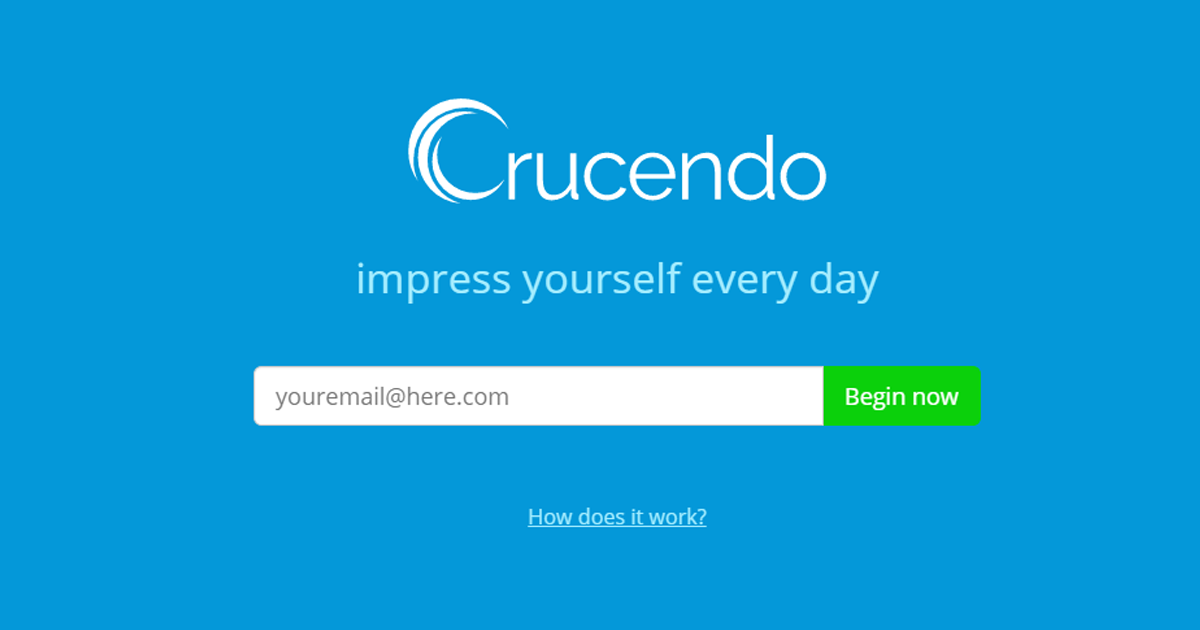
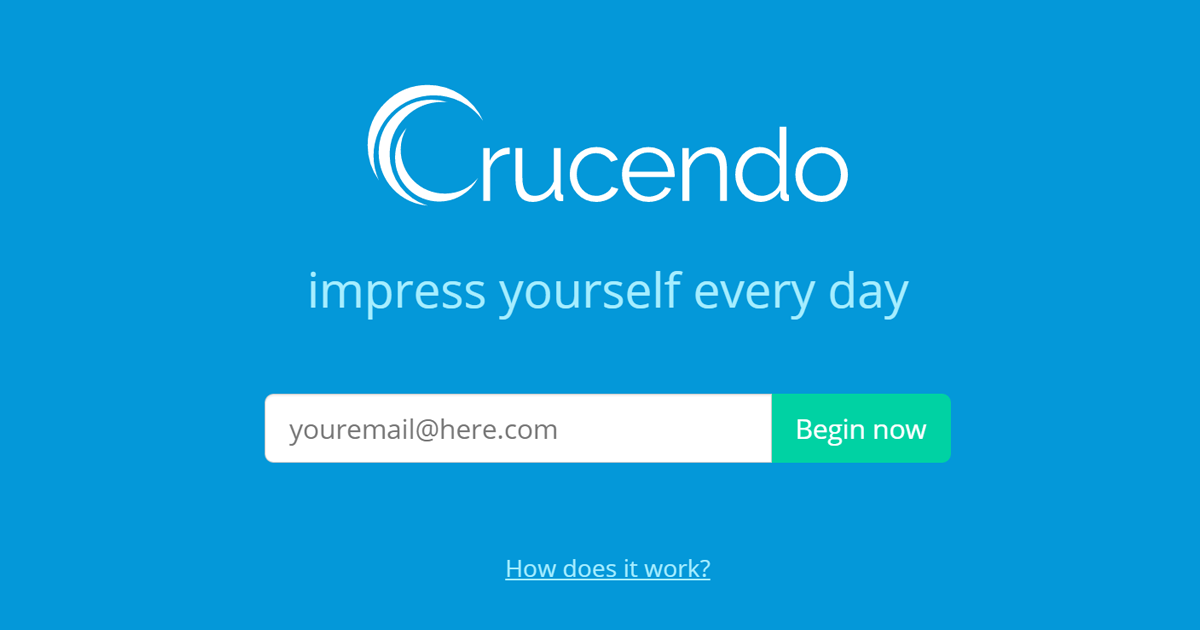
Able to now view crucendos

diff --git a/app/assets/stylesheets/custom.css.scss b/app/assets/stylesheets/custom.css.scss
@@ -1,7 +1,7 @@
 @import "bootstrap-sprockets";
 @import "bootstrap";
 @import "font-awesome";
-@import 'https://fonts.googleapis.com/css?family=Open+Sans|Raleway:400,600';
+@import 'https://fonts.googleapis.com/css?family=Open+Sans:300,400|Raleway:400,600';
 
 /* mixins, variables, etc. */
 
@@ -17,7 +17,7 @@ $friendly-green: #0bd00b;
 $crucial-green: #00d2a3;
 $box-shadow: rgba(0,2,34,0.75);
 
-$friendly-green-dark: darken($friendly-green, 2%);
+$crucial-green-dark: darken($crucial-green, 2%);
 
 $hornets-purple: #2352bf;
 $hornets-purple-light: lighten($hornets-purple, 20%);
@@ -429,7 +429,26 @@ input[type="month"] {
 /* panels */
 .panel {
   border: 1px solid white;
-  
+  .panel-body {
+    padding: 10px;
+    ul {
+      padding: 0;
+      margin: 0;
+      li {
+        .fa {
+          position: absolute;
+          line-height: inherit;
+          padding-left: 0.5em;
+        }
+        .fa-play {
+          margin-left: 1px;
+        }
+        span.offset {
+          padding-left: 3em;
+        }
+      }
+    }
+  }
 }
 .panel-group {
   margin-bottom: 10px;
@@ -453,26 +472,6 @@ input[type="month"] {
       background-color: $hornets-teal;
       color: white;
     }
-    .panel-body {
-      padding: 10px;
-      ul {
-        padding: 0;
-        margin: 0;
-        li {
-          .fa {
-            position: absolute;
-            line-height: inherit;
-            padding-left: 0.5em;
-          }
-          .fa-play {
-            margin-left: 1px;
-          }
-          span.offset {
-            padding-left: 3em;
-          }
-        }
-      }
-    }
     .panel-footer {
       color: $hornets-teal;
       background-color: inherit;
@@ -492,6 +491,20 @@ input[type="month"] {
         color: $hornets-purple;
       }
     }
+  }
+}
+
+.improvement-panel {
+  border: 1px solid white;
+  background-color: white;
+  .panel-heading {
+    border-top-right-radius: 4px;
+    border-top-left-radius: 4px;
+    background-color: $hornets-purple;
+    color: white;
+  }
+  .panel-body {
+    padding: 10px;
   }
 }
 
@@ -645,10 +658,17 @@ textarea.form-control {
   float: right;
 }
 
-.goal-panel a {
-  color: inherit;
-  text-decoration: inherit;
+.goal-panel, .interaction-panel {
+  a {
+    color: inherit;
+    text-decoration: inherit;
+  }
 }
+.goal-panel, .improvement-panel, .crucendo-panel {
+  .panel-title {
+    font-weight: 300;
+  }
+} 
 
 h3.panel-title {
   font-size: 1.6em;
@@ -659,7 +679,8 @@ h3.panel-title {
 }
 
 .helper {
-   font-size: 0.9em;
+  font-size: 0.9em;
+  color: $crucial-gray;
 }
 
 .interaction-summary {
@@ -742,19 +763,18 @@ h3.panel-title {
 .scotch-is-showing>#site-content {
   position: relative;
 }
-// #site-content:after {
-//   pointer-events: none; // allow clicks through overlay
-//   content: " ";
-//   z-index: 10;
-//   position: absolute;
-//   top: 0;
-//   left: 0;
-//   height: 100%;
-//   width: 100%;
-// }
+#site-content:after {
+  pointer-events: none; // allow clicks through overlay
+  content: " ";
+  z-index: 10;
+  position: absolute;
+  top: 0;
+  left: 0;
+  height: 100%;
+  width: 100%;
+}
 .scotch-is-showing>#site-content:after {
   pointer-events: auto;
-  //background: rgba(0, 0, 0, 0.4);
   cursor: pointer;
 }
 #site-wrapper {
@@ -766,6 +786,9 @@ h3.panel-title {
   padding-top: 10px;
   &.want-show {
     background: $hornets-teal;
+  }
+  &.crucendo-show {
+    background: $crucial-green;
   }
   &.padded-top {
     padding-top: 70px;
@@ -1032,8 +1055,8 @@ hr {
   text-align: center;
   .fa-stack {
     font-size: 10em;
-    height: 1.5em;
-    line-height: 1.5em;
+    height: 1.2em;
+    line-height: 1em;
     .fa {
       color: $hornets-purple;
     }
@@ -1055,6 +1078,10 @@ hr {
 h1.page-title {
   margin-bottom: 10px;
   color: white;
+  &.light {
+    font-weight: 300;
+    margin-bottom: 1em;
+  }
   small {
     color: $crucial-aqua;
   }
@@ -1085,12 +1112,12 @@ input[type=text] {
   }
 }
 .btn-green {
-  background-color: $friendly-green;
-  border: 1px solid $friendly-green;
+  background-color: $crucial-green;
+  border: 1px solid $crucial-green;
   color: white;
   &:hover, &:active, &:focus {
     color: white;
-    background-color: $friendly-green-dark;
+    background-color: $crucial-green-dark;
   }
 }
 .scaled-btn.improve-btn {
@@ -1160,29 +1187,6 @@ input[type=text] {
         color: white;
       }
     }
-  }
-}
-.improvement-small.panel {
-  margin-bottom: 5px;
-  background-color: $hornets-purple;
-  border-color: $hornets-purple;
-  color: white;
-  .panel-body {
-    padding: 10px;
-  }
-  .icons {
-    position: absolute;
-    line-height: inherit;
-    font-size: 1.5em;
-  }
-  .improvement-details {
-    span {
-      font-size: 1.2em;
-      display: block;
-    }
-    padding-left: 4em;
-    margin-bottom: 0;
-    font-size: 1em;
   }
 }
 .crucendo-begin {
@@ -1282,14 +1286,18 @@ input[type="date"]
     color: $crucial-aqua;
   }
 }
-.goal-helper, .improvement-helper {
+.goal-helper, .improvement-helper, .missing-content-helper {
   font-size: 1.5em;
   text-align: center;
   color: white;
   padding: 1em;
+  a {
+    color: white;
+    text-decoration: underline;
+  }
 }
 .alert {
-  font-size: 1.5em;
+  font-size: 1.3em;
   border: none;
   &.alert-success {
     color: white;
@@ -1368,9 +1376,8 @@ p.split {
     color: white;
     border-top-right-radius: 4px;
     border-top-left-radius: 4px;
-    span {
-      font-size: 0.5em;
-      line-height: 2em;
+    img {
+      margin-top: -0.25em;
     }
   }
   .panel-body {
@@ -1397,11 +1404,19 @@ p.split {
     background-color: inherit;
     text-align: center;
   }
+  &:hover {
+    border-color: $crucial-green;
+    transform: scale(1.03);
+    .panel-heading {
+      border-top-right-radius: 0;
+      border-top-left-radius: 0;
+    }
+  }
 }
 
 .interaction-stats {
   text-align: center;
-  color: #9076de;
+  color: $crucial-gray;
   .pluralize-number {
     display: block;
     font-size: 4em;
@@ -1457,4 +1472,43 @@ p.split {
   text-align: center;
   font-size: 1.2em;
   color: white;
+}
+img.c-logo {
+  height: 1.5em;
+}
+.answer-panel {
+  color: white;
+  background: transparent;
+  border: none;
+  box-shadow: none;
+  font-size: 1.2em;
+  -webkit-box-shadow: none;
+  .panel-heading {
+    padding: 1em 0;
+  }
+  .panel-body {
+   padding: 0;
+  }
+}
+blockquote {
+  font-size: 1.5em;
+  font-weight: 300;
+  border-left: 2px solid white;
+}
+h2.line-span {
+  width: 100%; 
+  text-align: center; 
+  border-bottom: 1px solid white; 
+  line-height: 0.1em;
+  margin: 2em 0;
+  font-size: 2em;
+  color: white;
+  &.green span {
+    background: $crucial-green; 
+    padding:0 10px;
+  }
+  &.teal span {
+    background: $hornets-teal; 
+    padding:0 10px;
+  }
 }

diff --git a/app/assets/stylesheets/accomplishments/crucendos.scss b/app/assets/stylesheets/accomplishments/crucendos.scss
@@ -1,0 +1,3 @@
+// Place all the styles related to the accomplishments/crucendos controller here.
+// They will automatically be included in application.css.
+// You can use Sass (SCSS) here: http://sass-lang.com/

diff --git a/app/controllers/accomplishments/crucendos_controller.rb b/app/controllers/accomplishments/crucendos_controller.rb
@@ -1,0 +1,15 @@
+class Accomplishments::CrucendosController < ApplicationController
+  before_action :set_current_user
+  before_action :correct_user
+  
+  def show
+  end
+  
+  private
+    def correct_user
+      # Ensure crucendo belongs to current user
+      redirect_to root_url unless @crucendo = @user.interactions
+                                                    .completed
+                                                    .find_by(id: params[:id])
+    end
+end

diff --git a/app/controllers/accomplishments_controller.rb b/app/controllers/accomplishments_controller.rb
@@ -1,9 +1,8 @@
 class AccomplishmentsController < ApplicationController
-  
   before_action :set_current_user
   
   def index
     # Get list of users interactions
-    @interactions = @user.interactions.completed
+    @interactions = @user.interactions.includes(:goals, :improvements, answers: [{question: :topic}]).completed
   end
 end

diff --git a/app/controllers/improvements_controller.rb b/app/controllers/improvements_controller.rb
@@ -3,7 +3,6 @@ class ImprovementsController < ApplicationController
   before_action :set_current_user
   
   def index
-    @improvements = @user.improvements.paginate(
-                      page: params[:page], :per_page => 10)
+    @improvements = @user.improvements
   end
 end

diff --git a/config/routes.rb b/config/routes.rb
@@ -24,6 +24,10 @@ Rails.application.routes.draw do
   
   resources :accomplishments
   
+  namespace :accomplishments do
+    resources :crucendos
+  end
+  
   resources :goals, :path => 'wants' do
     post 'improve', on: :member
   end

diff --git a/test/controllers/accomplishments/crucendos_controller_test.rb b/test/controllers/accomplishments/crucendos_controller_test.rb
@@ -1,0 +1,7 @@
+require 'test_helper'
+
+class Accomplishments::CrucendosControllerTest < ActionController::TestCase
+  # test "the truth" do
+  #   assert true
+  # end
+end

diff --git a/app/helpers/accomplishments/crucendos_helper.rb b/app/helpers/accomplishments/crucendos_helper.rb
@@ -1,0 +1,2 @@
+module Accomplishments::CrucendosHelper
+end
